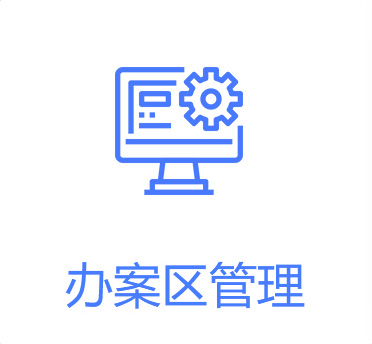
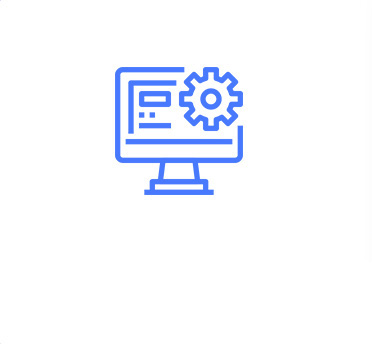
执法管理系统页面修改系统名称

Changed region(s): [[0.1774, 0.7558, 0.828, 0.9012]]

diff --git a/src/pages/User/GoLink.less b/src/pages/User/GoLink.less
@@ -15,7 +15,10 @@
   background: #fff;
   border-radius: 8px;
   width: 19.5%;
-  padding-top: 18%;
+  padding: 12% 0 2%;
+  color:#4876ff;
+  text-align: center;
+  font-size: 46px;
   background-size: 100%!important;
   overflow: hidden;
   cursor:pointer;
@@ -36,41 +39,49 @@
   left: 52%;
 }
 .zhjz{
+  color: #ccc;
   background: url("../../assets/zhjz.jpg") no-repeat;
   left: 73.5%;
 }
 @media screen and (max-width: 1600px) {
   .boxUrl{
     top:400px;
+    font-size: 44px;
   }
 }
 @media screen and (max-width: 1500px) {
   .boxUrl{
     top:380px;
+    font-size: 42px;
   }
 }
 @media screen and (max-width: 1440px) {
   .boxUrl{
     top:350px;
+    font-size: 40px;
   }
 }
 @media screen and (max-width: 1300px) {
   .boxUrl{
     top:300px;
+    font-size: 38px;
   }
 }
 @media screen and (max-width: 1200px) {
   .boxUrl{
     top:280px;
+    font-size: 34px;
   }
 }
 @media screen and (max-width: 1100px) {
   .boxUrl{
     top:260px;
+    font-size: 32px;
   }
 }
 @media screen and (max-width: 1000px) {
   .boxUrl{
     top:240px;
+    font-size: 30px;
   }
 }

diff --git a/src/pages/User/GoLink.js b/src/pages/User/GoLink.js
@@ -27,10 +27,10 @@ export default class GoLink extends PureComponent {
     return (
       <div className={styles.bg}>
         <div className={styles.name}>{this.state.group} {this.state.name},您好</div>
-        <div className={styles.boxUrl+' '+styles.zhag} onClick={()=>this.goLink('zhagUrl')}></div>
-        <div className={styles.boxUrl+' '+styles.sacw} onClick={()=>this.goLink('sacwUrl')}></div>
-        <div className={styles.boxUrl+' '+styles.baq} onClick={()=>this.goLink('baqUrl')}></div>
-        <div className={styles.boxUrl+' '+styles.zhjz}></div>
+        <div className={styles.boxUrl+' '+styles.zhag} onClick={()=>this.goLink('zhagUrl')}>执法管理</div>
+        <div className={styles.boxUrl+' '+styles.sacw} onClick={()=>this.goLink('sacwUrl')}>涉案物品管理</div>
+        <div className={styles.boxUrl+' '+styles.baq} onClick={()=>this.goLink('baqUrl')}>办案区管理</div>
+        <div className={styles.boxUrl+' '+styles.zhjz}>智慧卷宗管理</div>
       </div>
     );
   }

diff --git a/public/configUrl.js b/public/configUrl.js
@@ -4,7 +4,7 @@ const ips = {
     ryl: 'http://192.168.3.23:7400', //ruyali
     fm: 'http://172.19.12.115:7400', //范敏
 
-    // 执法管理系统
+    // 执法监督管理平台
     ag_mc: 'http://192.168.3.99:7700',  //莫晨
     ag_ryl: 'http://192.168.3.17:7700',  //汝亚莉
     ag_fm: 'http://192.168.3.159:7700',//范敏
@@ -16,8 +16,8 @@ const ips = {
 }
 
 window.configUrl = {
-    sysName: '执法管理系统',
-    headName: '海邻科执法管理系统', // 左侧导航顶部显示名称
+    sysName: '执法监督管理平台',
+    headName: '海邻科执法监督管理平台', // 左侧导航顶部显示名称
     footName: '哈尔滨海邻科信息技术有限公司',
     version: 'V 1.2.9.2',
     sid: "zhag",// 系统资源ID

diff --git a/src/layouts/UserLayout.js b/src/layouts/UserLayout.js
@@ -59,7 +59,7 @@ class UserLayout extends Component {
                   <div className={styles.header}>
                     <Link to="/">
                       <img alt="logo" className={styles.logo} src={logo} />
-                      <span className={styles.title}>执法管理系统</span>
+                      <span className={styles.title}>执法监督管理平台</span>
                     </Link>
                   </div>
                 </div>

diff --git a/src/defaultSettings.js b/src/defaultSettings.js
@@ -9,7 +9,7 @@ module.exports = {
   menu: {
     disableLocal: false,
   },
-  title: '执法管理系统',
+  title: '执法监督管理平台',
   pwa: true,
   // Your custom iconfont Symbol script Url
   // eg：//at.alicdn.com/t/font_1039637_btcrd5co4w.js

diff --git a/src/locales/zh-CN/menu.js b/src/locales/zh-CN/menu.js
@@ -42,5 +42,5 @@ export default {
   'menu.editor.flow': '流程编辑器',
   'menu.editor.mind': '脑图编辑器',
   'menu.editor.koni': '拓扑编辑器',
-  'menu.goLink':'跳转页面'
+  'menu.goLink':'执法管理'
 };
